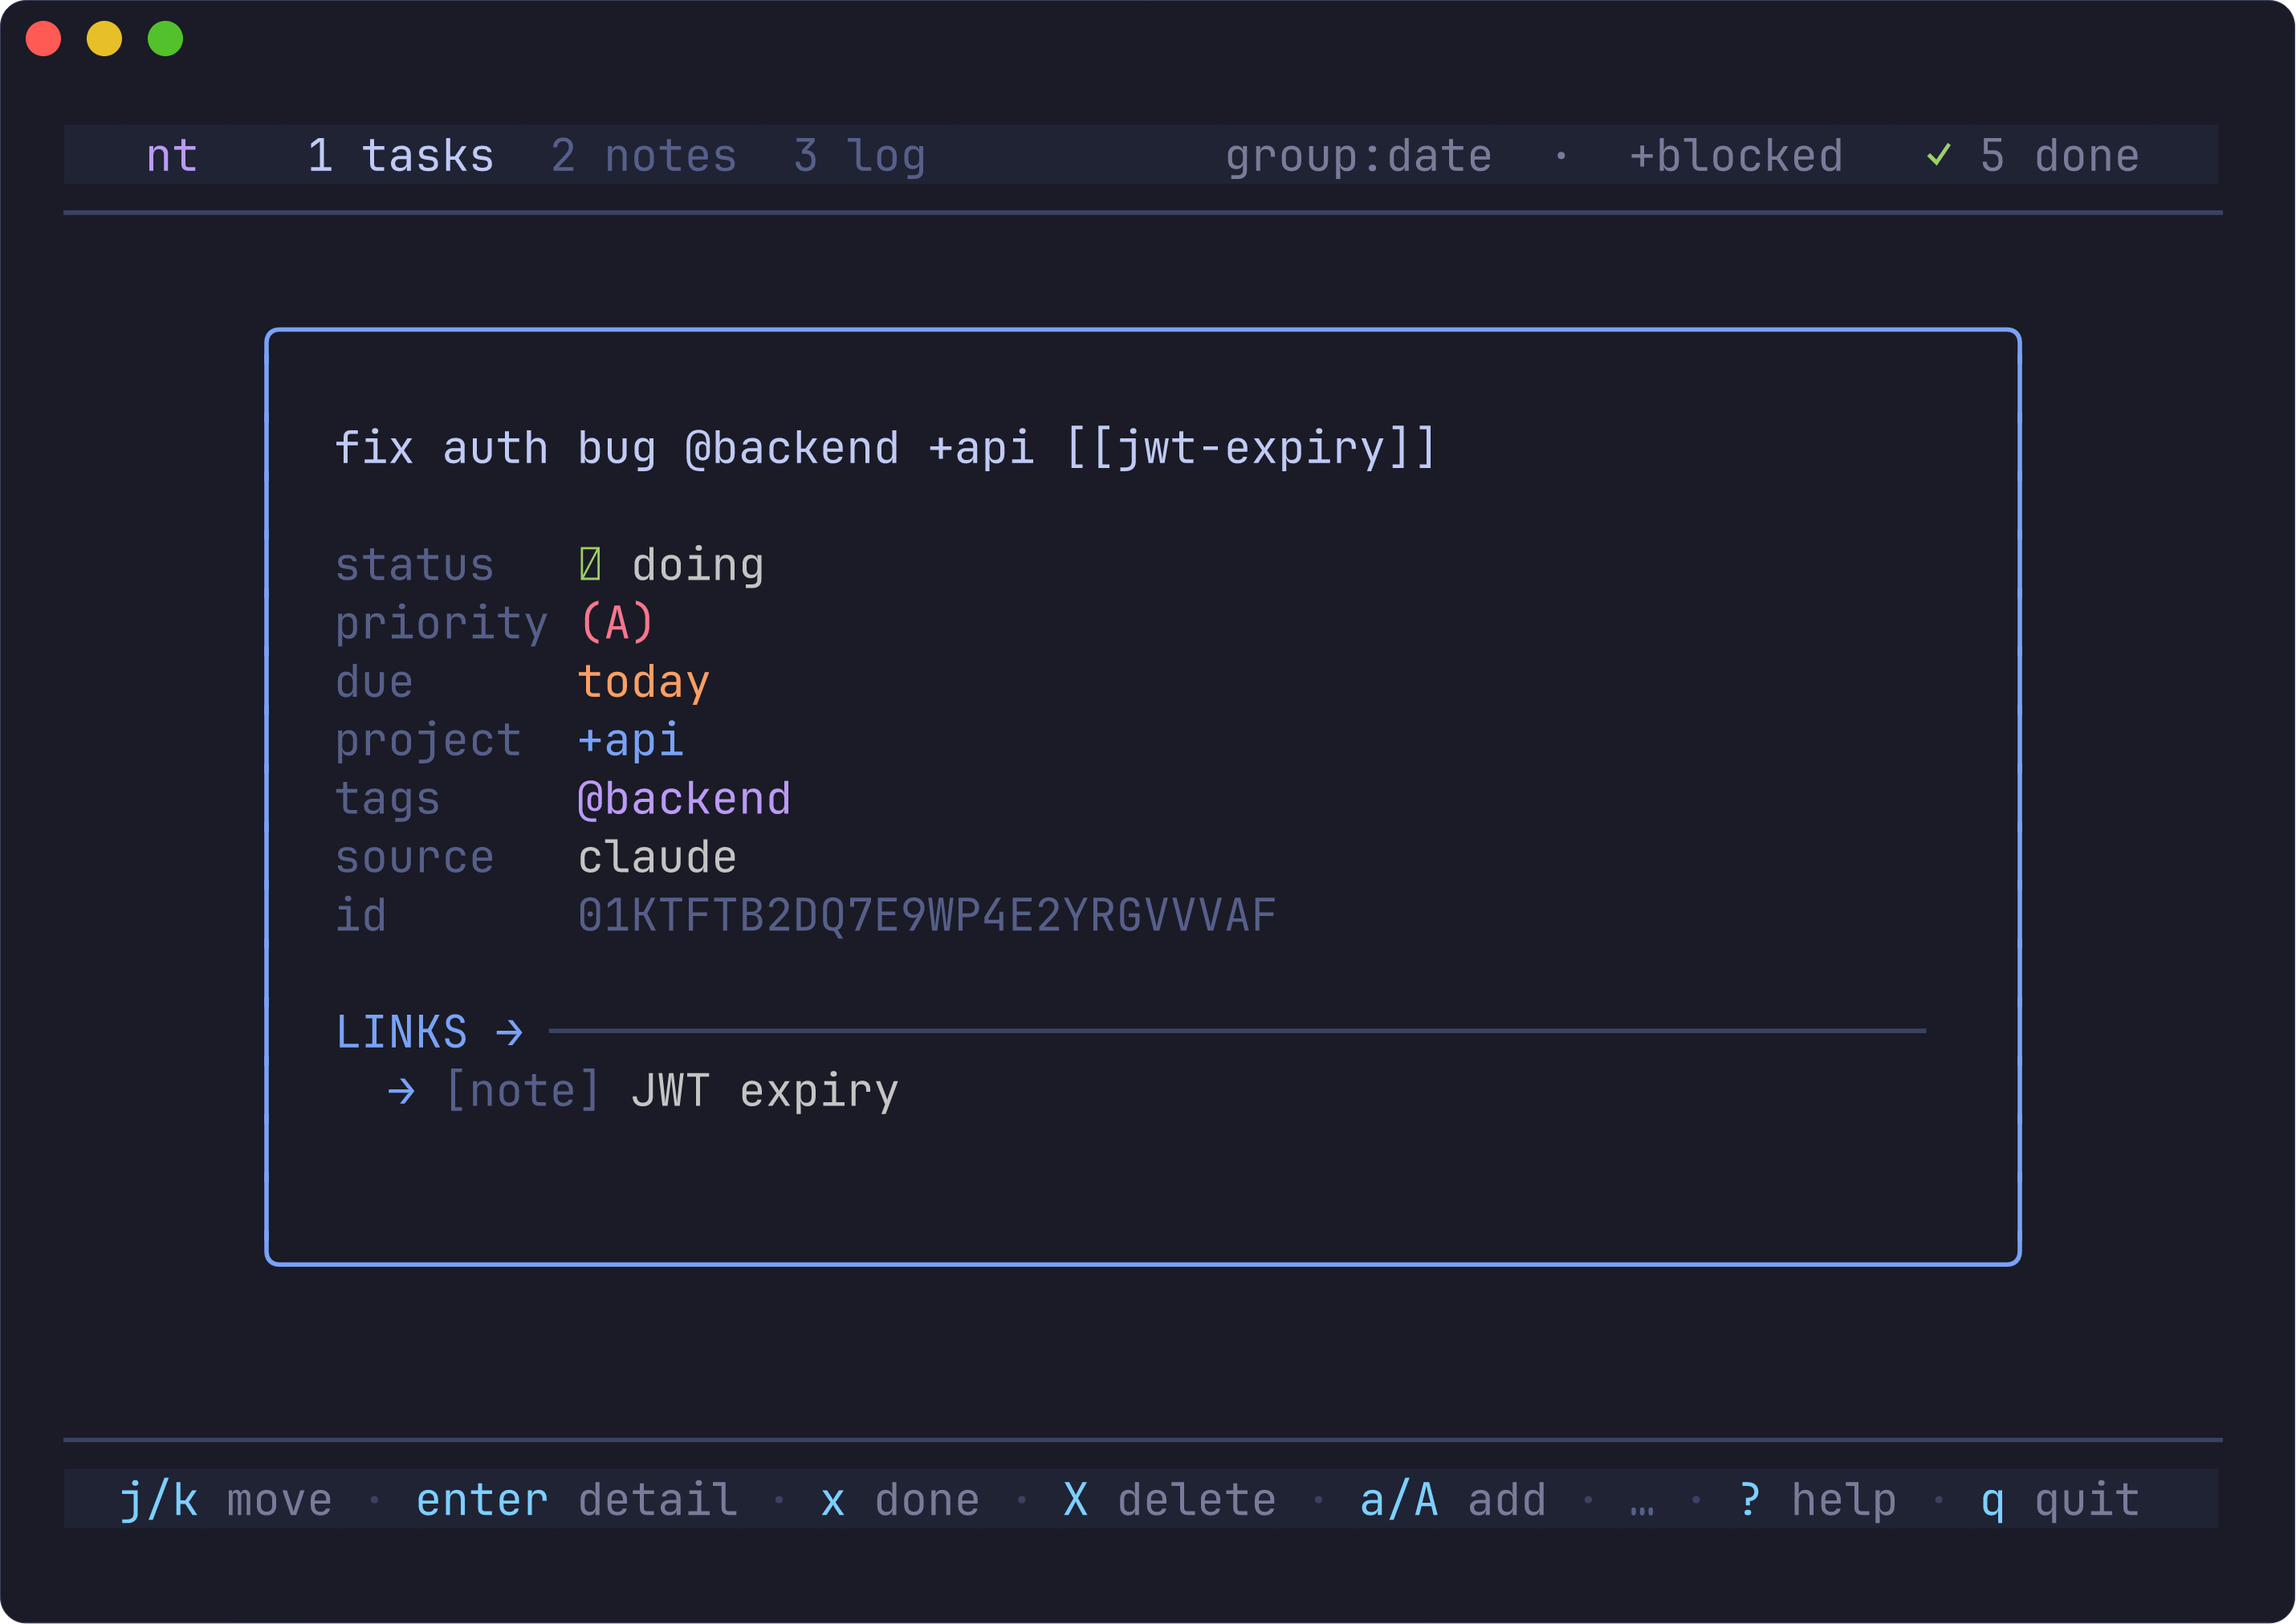
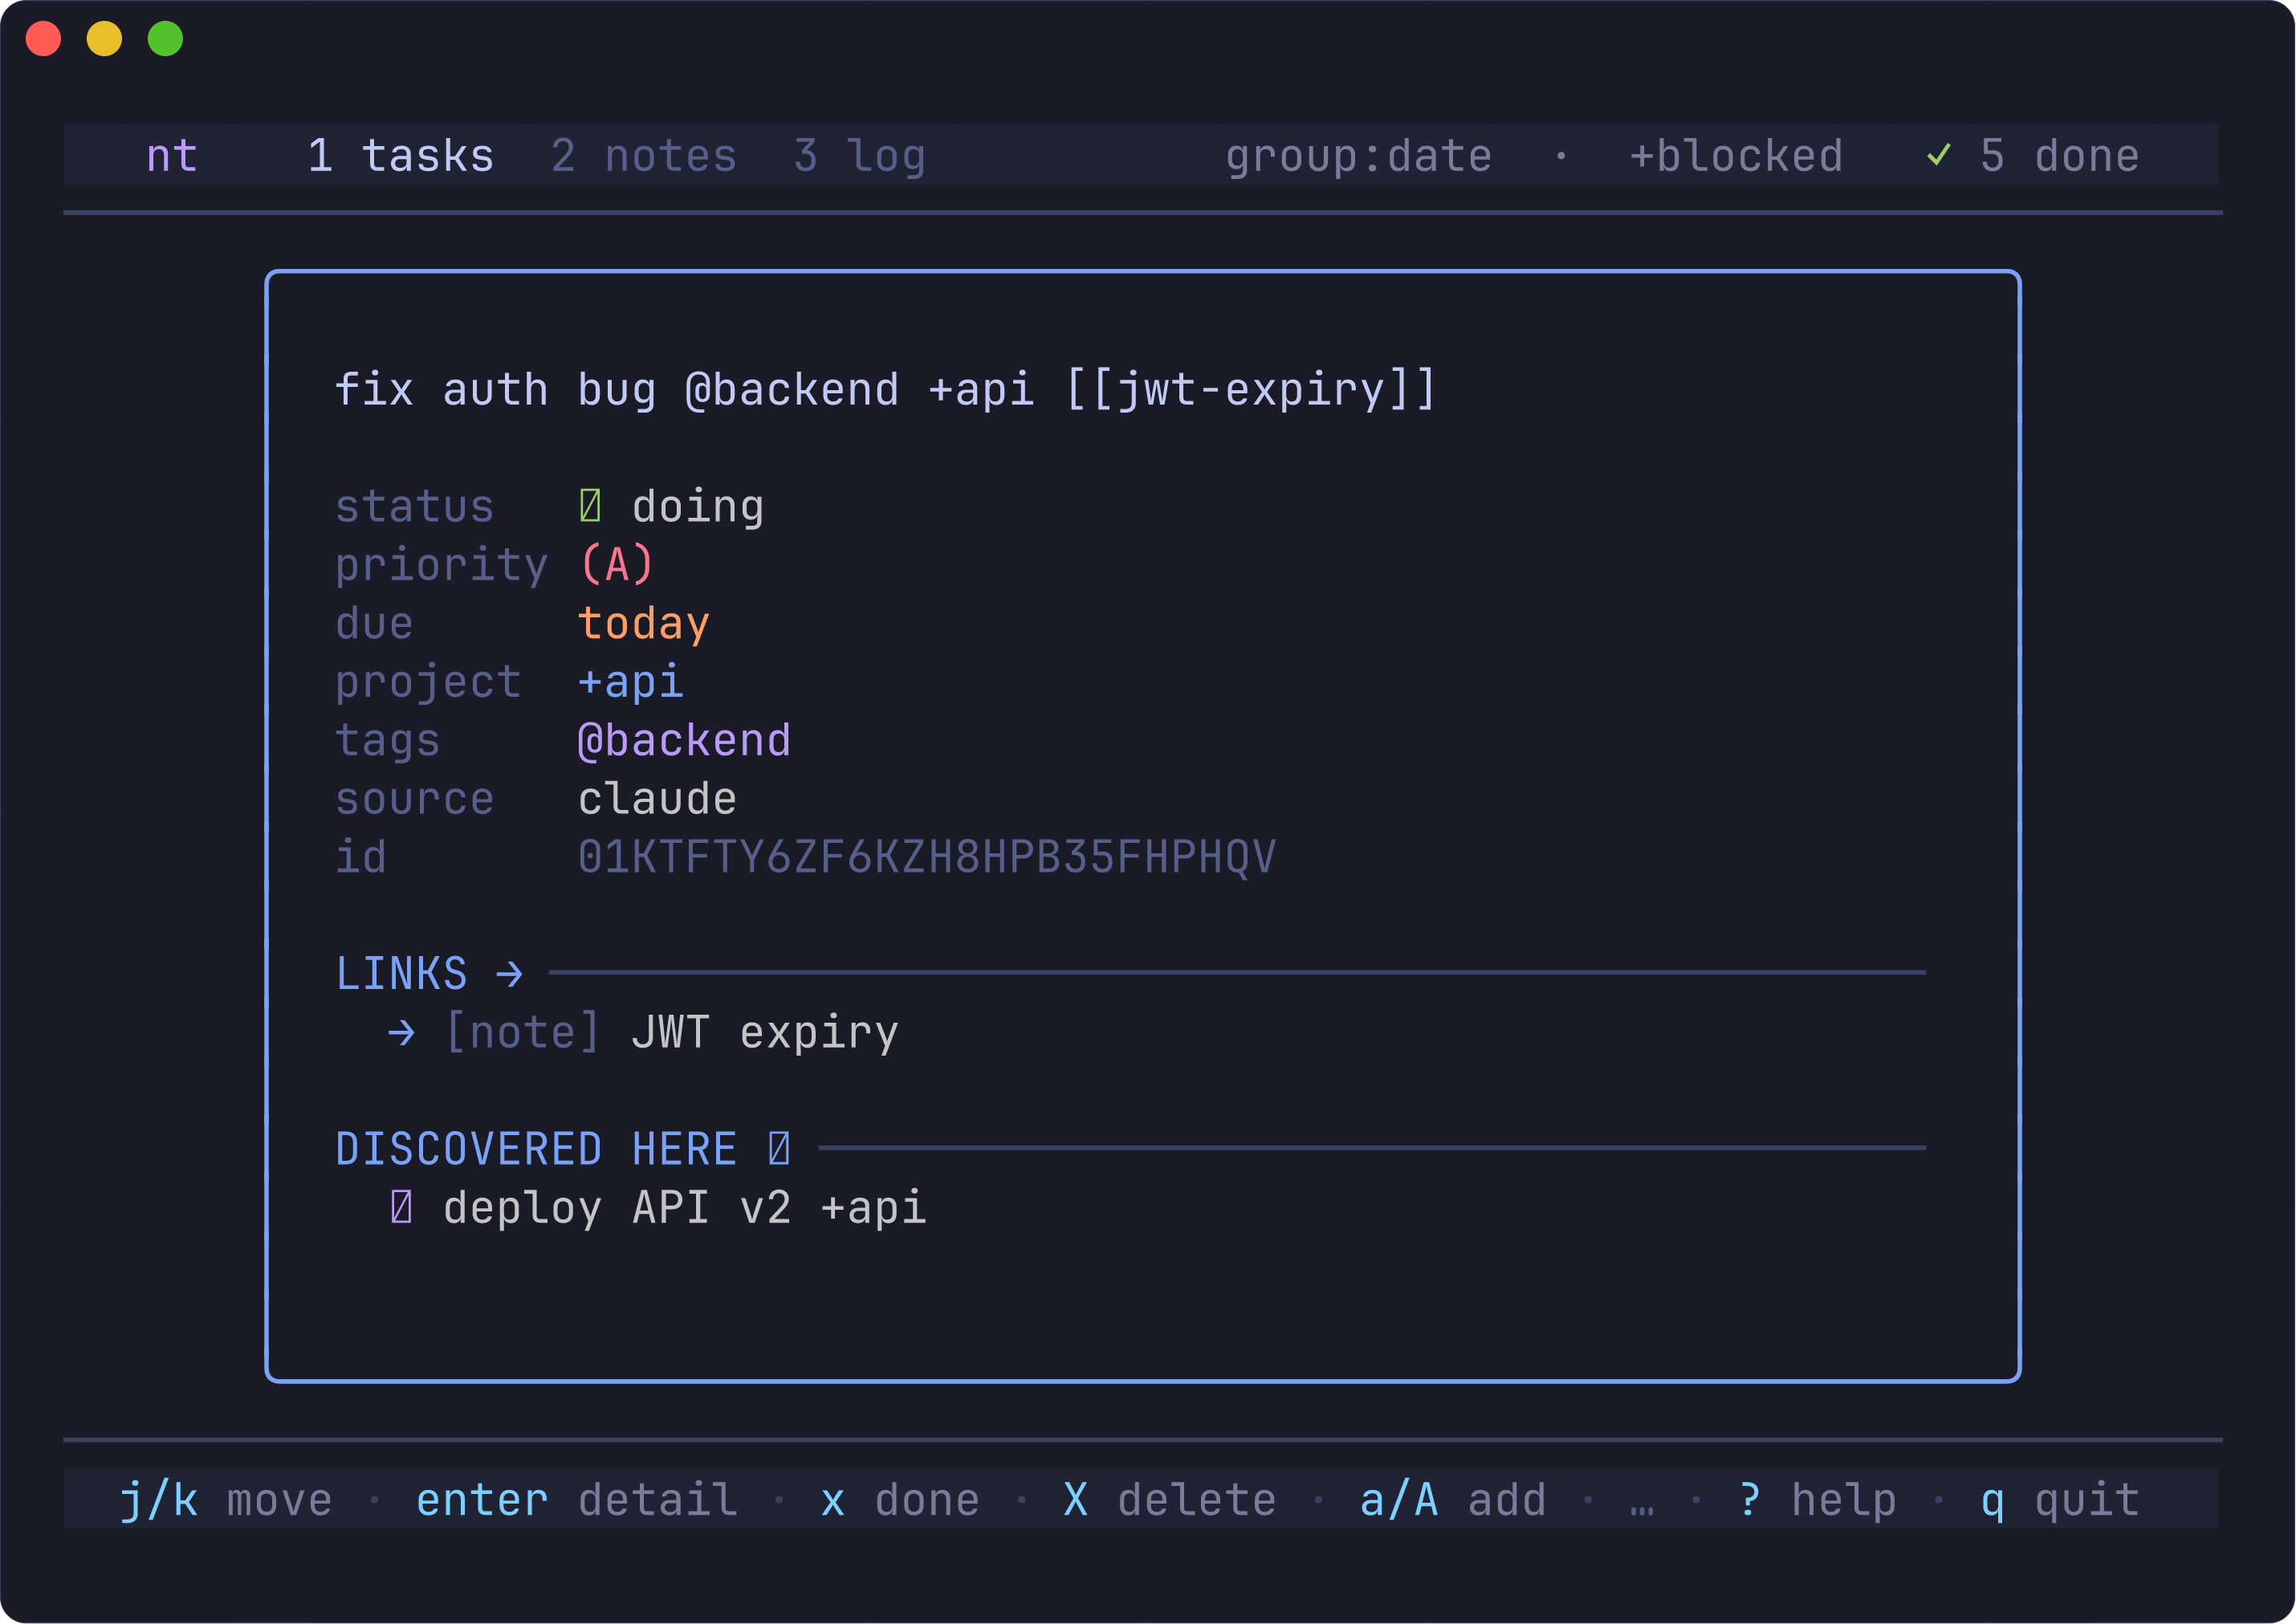
feat: --discovered-from provenance edge + decision-capture skill guidance
Capture-decisions slice (Product #5). Records WHY a task exists, not just the
todo mirror — the reasoning that's otherwise lost across AI sessions.

- task: discovered:<ULID> key + Task.Discovered() accessor (round-trips like
  parent:/blocks:).
- nt add --discovered-from <id>: links new work to the task it was surfaced
  from. nt links shows both directions ('discovered from ↑' / 'discovered here
  ↳'); the TUI detail pane gains DISCOVERED FROM/HERE sections.
- SKILL.md: 'capture the why, not just the what' — guidance to chain discovered
  work and to write decision/dead-end notes (pairs with recall now returning
  note bodies). This behavioral nudge is the real unlock.
- SPEC + CLI help updated; render harness wires a discovered edge so the detail
  pane demonstrates it; screenshots regenerated.
Test: --discovered-from stored, surfaced both ways via nt links.

Changed region(s): [[0.1245, 0.1869, 0.8713, 0.7785], [0.3734, 0.7163, 0.4045, 0.7785]]

diff --git a/docs/tui-render.html b/docs/tui-render.html
@@ -17,13 +17,13 @@ pre{margin:0;padding:0;background:#1a1b26;line-height:1.32;font-size:13px}</styl
    <span style="color:#565f89;">○</span> write migration <span style="color:#79a2f7;">+api</span>                                                <span style="color:#e0af68;">(B)</span> <span style="color:#e0af68;">Fri</span> <span style="color:#3b4161;">│</span>  <span style="color:#565f89;">project  </span><span style="color:#79a2f7;">+api</span>                                           
                                                                                  <span style="color:#3b4161;">│</span>  <span style="color:#565f89;">tags     </span><span style="color:#bb9af7;">@backend</span>                                       
 <span style="color:#79a2f7;font-weight:600;">  NO DATE </span><span style="color:#3b4161;">───────────────────────────────────────────────────────────────────</span><span style="color:#565f89;"> 2 </span> <span style="color:#3b4161;">│</span>  <span style="color:#565f89;">source   </span>claude                                         
-   <span style="color:#565f89;">○</span> spike: rotate auth secrets <span style="color:#7dcfff;">[[jwt-expiry]]</span>                               <span style="color:#79a2f7;">(C)</span> <span style="color:#3b4161;">│</span>  <span style="color:#565f89;">id       </span><span style="color:#565f89;">01KTFTB1CW58N5H1CMYRTRM20P</span>                     
+   <span style="color:#565f89;">○</span> spike: rotate auth secrets <span style="color:#7dcfff;">[[jwt-expiry]]</span>                               <span style="color:#79a2f7;">(C)</span> <span style="color:#3b4161;">│</span>  <span style="color:#565f89;">id       </span><span style="color:#565f89;">01KTFTY5Z2CC8XNFG9TY3B9Q7B</span>                     
    <span style="color:#f7768e;">⊘</span> update config <span style="color:#79a2f7;">+api</span>                                                          <span style="color:#3b4161;">│</span>                                                          
                                                                                  <span style="color:#3b4161;">│</span>  <span style="color:#79a2f7;font-weight:600;">LINKS →</span> <span style="color:#3b4161;">────────────────────────────────────────────</span>    
 <span style="color:#79a2f7;font-weight:600;">  DONE </span><span style="color:#3b4161;">──────────────────────────────────────────────────────────────────────</span><span style="color:#565f89;"> 5 </span> <span style="color:#3b4161;">│</span>    <span style="color:#79a2f7;">→</span> <span style="color:#565f89;">[note]</span> JWT expiry                                   
    <span style="color:#565f89;">✓</span> <span style="color:#565f89;text-decoration:line-through;">s</span><span style="color:#565f89;text-decoration:line-through;">h</span><span style="color:#565f89;text-decoration:line-through;">i</span><span style="color:#565f89;text-decoration:line-through;">p</span><span style="color:#565f89;text-decoration:line-through;"> </span><span style="color:#565f89;text-decoration:line-through;">r</span><span style="color:#565f89;text-decoration:line-through;">e</span><span style="color:#565f89;text-decoration:line-through;">l</span><span style="color:#565f89;text-decoration:line-through;">e</span><span style="color:#565f89;text-decoration:line-through;">a</span><span style="color:#565f89;text-decoration:line-through;">s</span><span style="color:#565f89;text-decoration:line-through;">e</span><span style="color:#565f89;text-decoration:line-through;"> </span><span style="color:#565f89;text-decoration:line-through;">n</span><span style="color:#565f89;text-decoration:line-through;">o</span><span style="color:#565f89;text-decoration:line-through;">t</span><span style="color:#565f89;text-decoration:line-through;">e</span><span style="color:#565f89;text-decoration:line-through;">s</span><span style="color:#565f89;text-decoration:line-through;"> </span><span style="color:#565f89;text-decoration:line-through;">+</span><span style="color:#565f89;text-decoration:line-through;">r</span><span style="color:#565f89;text-decoration:line-through;">e</span><span style="color:#565f89;text-decoration:line-through;">l</span><span style="color:#565f89;text-decoration:line-through;">e</span><span style="color:#565f89;text-decoration:line-through;">a</span><span style="color:#565f89;text-decoration:line-through;">s</span><span style="color:#565f89;text-decoration:line-through;">e</span>                                                 <span style="color:#3b4161;">│</span>                                                          
-   <span style="color:#565f89;">✓</span> <span style="color:#565f89;text-decoration:line-through;">d</span><span style="color:#565f89;text-decoration:line-through;">e</span><span style="color:#565f89;text-decoration:line-through;">p</span><span style="color:#565f89;text-decoration:line-through;">l</span><span style="color:#565f89;text-decoration:line-through;">o</span><span style="color:#565f89;text-decoration:line-through;">y</span><span style="color:#565f89;text-decoration:line-through;"> </span><span style="color:#565f89;text-decoration:line-through;">A</span><span style="color:#565f89;text-decoration:line-through;">P</span><span style="color:#565f89;text-decoration:line-through;">I</span><span style="color:#565f89;text-decoration:line-through;"> </span><span style="color:#565f89;text-decoration:line-through;">v</span><span style="color:#565f89;text-decoration:line-through;">2</span><span style="color:#565f89;text-decoration:line-through;"> </span><span style="color:#565f89;text-decoration:line-through;">+</span><span style="color:#565f89;text-decoration:line-through;">a</span><span style="color:#565f89;text-decoration:line-through;">p</span><span style="color:#565f89;text-decoration:line-through;">i</span>                                                          <span style="color:#3b4161;">│</span>                                                          
-   <span style="color:#565f89;">✓</span> <span style="color:#565f89;text-decoration:line-through;">c</span><span style="color:#565f89;text-decoration:line-through;">l</span><span style="color:#565f89;text-decoration:line-through;">o</span><span style="color:#565f89;text-decoration:line-through;">s</span><span style="color:#565f89;text-decoration:line-through;">e</span><span style="color:#565f89;text-decoration:line-through;"> </span><span style="color:#565f89;text-decoration:line-through;">f</span><span style="color:#565f89;text-decoration:line-through;">l</span><span style="color:#565f89;text-decoration:line-through;">a</span><span style="color:#565f89;text-decoration:line-through;">k</span><span style="color:#565f89;text-decoration:line-through;">y</span><span style="color:#565f89;text-decoration:line-through;">-</span><span style="color:#565f89;text-decoration:line-through;">t</span><span style="color:#565f89;text-decoration:line-through;">e</span><span style="color:#565f89;text-decoration:line-through;">s</span><span style="color:#565f89;text-decoration:line-through;">t</span><span style="color:#565f89;text-decoration:line-through;"> </span><span style="color:#565f89;text-decoration:line-through;">i</span><span style="color:#565f89;text-decoration:line-through;">s</span><span style="color:#565f89;text-decoration:line-through;">s</span><span style="color:#565f89;text-decoration:line-through;">u</span><span style="color:#565f89;text-decoration:line-through;">e</span><span style="color:#565f89;text-decoration:line-through;"> </span><span style="color:#565f89;text-decoration:line-through;">@</span><span style="color:#565f89;text-decoration:line-through;">c</span><span style="color:#565f89;text-decoration:line-through;">i</span><span style="color:#565f89;text-decoration:line-through;"> </span><span style="color:#565f89;text-decoration:line-through;">[</span><span style="color:#565f89;text-decoration:line-through;">[</span><span style="color:#565f89;text-decoration:line-through;">c</span><span style="color:#565f89;text-decoration:line-through;">i</span><span style="color:#565f89;text-decoration:line-through;">-</span><span style="color:#565f89;text-decoration:line-through;">r</span><span style="color:#565f89;text-decoration:line-through;">u</span><span style="color:#565f89;text-decoration:line-through;">n</span><span style="color:#565f89;text-decoration:line-through;">b</span><span style="color:#565f89;text-decoration:line-through;">o</span><span style="color:#565f89;text-decoration:line-through;">o</span><span style="color:#565f89;text-decoration:line-through;">k</span><span style="color:#565f89;text-decoration:line-through;">]</span><span style="color:#565f89;text-decoration:line-through;">]</span>                                   <span style="color:#3b4161;">│</span>                                                          
+   <span style="color:#565f89;">✓</span> <span style="color:#565f89;text-decoration:line-through;">d</span><span style="color:#565f89;text-decoration:line-through;">e</span><span style="color:#565f89;text-decoration:line-through;">p</span><span style="color:#565f89;text-decoration:line-through;">l</span><span style="color:#565f89;text-decoration:line-through;">o</span><span style="color:#565f89;text-decoration:line-through;">y</span><span style="color:#565f89;text-decoration:line-through;"> </span><span style="color:#565f89;text-decoration:line-through;">A</span><span style="color:#565f89;text-decoration:line-through;">P</span><span style="color:#565f89;text-decoration:line-through;">I</span><span style="color:#565f89;text-decoration:line-through;"> </span><span style="color:#565f89;text-decoration:line-through;">v</span><span style="color:#565f89;text-decoration:line-through;">2</span><span style="color:#565f89;text-decoration:line-through;"> </span><span style="color:#565f89;text-decoration:line-through;">+</span><span style="color:#565f89;text-decoration:line-through;">a</span><span style="color:#565f89;text-decoration:line-through;">p</span><span style="color:#565f89;text-decoration:line-through;">i</span>                                                          <span style="color:#3b4161;">│</span>  <span style="color:#79a2f7;font-weight:600;">DISCOVERED HERE ↳</span> <span style="color:#3b4161;">──────────────────────────────────</span>    
+   <span style="color:#565f89;">✓</span> <span style="color:#565f89;text-decoration:line-through;">c</span><span style="color:#565f89;text-decoration:line-through;">l</span><span style="color:#565f89;text-decoration:line-through;">o</span><span style="color:#565f89;text-decoration:line-through;">s</span><span style="color:#565f89;text-decoration:line-through;">e</span><span style="color:#565f89;text-decoration:line-through;"> </span><span style="color:#565f89;text-decoration:line-through;">f</span><span style="color:#565f89;text-decoration:line-through;">l</span><span style="color:#565f89;text-decoration:line-through;">a</span><span style="color:#565f89;text-decoration:line-through;">k</span><span style="color:#565f89;text-decoration:line-through;">y</span><span style="color:#565f89;text-decoration:line-through;">-</span><span style="color:#565f89;text-decoration:line-through;">t</span><span style="color:#565f89;text-decoration:line-through;">e</span><span style="color:#565f89;text-decoration:line-through;">s</span><span style="color:#565f89;text-decoration:line-through;">t</span><span style="color:#565f89;text-decoration:line-through;"> </span><span style="color:#565f89;text-decoration:line-through;">i</span><span style="color:#565f89;text-decoration:line-through;">s</span><span style="color:#565f89;text-decoration:line-through;">s</span><span style="color:#565f89;text-decoration:line-through;">u</span><span style="color:#565f89;text-decoration:line-through;">e</span><span style="color:#565f89;text-decoration:line-through;"> </span><span style="color:#565f89;text-decoration:line-through;">@</span><span style="color:#565f89;text-decoration:line-through;">c</span><span style="color:#565f89;text-decoration:line-through;">i</span><span style="color:#565f89;text-decoration:line-through;"> </span><span style="color:#565f89;text-decoration:line-through;">[</span><span style="color:#565f89;text-decoration:line-through;">[</span><span style="color:#565f89;text-decoration:line-through;">c</span><span style="color:#565f89;text-decoration:line-through;">i</span><span style="color:#565f89;text-decoration:line-through;">-</span><span style="color:#565f89;text-decoration:line-through;">r</span><span style="color:#565f89;text-decoration:line-through;">u</span><span style="color:#565f89;text-decoration:line-through;">n</span><span style="color:#565f89;text-decoration:line-through;">b</span><span style="color:#565f89;text-decoration:line-through;">o</span><span style="color:#565f89;text-decoration:line-through;">o</span><span style="color:#565f89;text-decoration:line-through;">k</span><span style="color:#565f89;text-decoration:line-through;">]</span><span style="color:#565f89;text-decoration:line-through;">]</span>                                   <span style="color:#3b4161;">│</span>    <span style="color:#bb9af7;">↳</span> deploy API v2 +api                                  
    <span style="color:#565f89;">✓</span> <span style="color:#565f89;text-decoration:line-through;">w</span><span style="color:#565f89;text-decoration:line-through;">r</span><span style="color:#565f89;text-decoration:line-through;">i</span><span style="color:#565f89;text-decoration:line-through;">t</span><span style="color:#565f89;text-decoration:line-through;">e</span><span style="color:#565f89;text-decoration:line-through;"> </span><span style="color:#565f89;text-decoration:line-through;">A</span><span style="color:#565f89;text-decoration:line-through;">P</span><span style="color:#565f89;text-decoration:line-through;">I</span><span style="color:#565f89;text-decoration:line-through;"> </span><span style="color:#565f89;text-decoration:line-through;">d</span><span style="color:#565f89;text-decoration:line-through;">o</span><span style="color:#565f89;text-decoration:line-through;">c</span><span style="color:#565f89;text-decoration:line-through;">s</span><span style="color:#565f89;text-decoration:line-through;"> </span><span style="color:#565f89;text-decoration:line-through;">+</span><span style="color:#565f89;text-decoration:line-through;">d</span><span style="color:#565f89;text-decoration:line-through;">o</span><span style="color:#565f89;text-decoration:line-through;">c</span><span style="color:#565f89;text-decoration:line-through;">s</span>                                                        <span style="color:#3b4161;">│</span>                                                          
    <span style="color:#565f89;">✓</span> <span style="color:#565f89;text-decoration:line-through;">s</span><span style="color:#565f89;text-decoration:line-through;">e</span><span style="color:#565f89;text-decoration:line-through;">c</span><span style="color:#565f89;text-decoration:line-through;">u</span><span style="color:#565f89;text-decoration:line-through;">r</span><span style="color:#565f89;text-decoration:line-through;">i</span><span style="color:#565f89;text-decoration:line-through;">t</span><span style="color:#565f89;text-decoration:line-through;">y</span><span style="color:#565f89;text-decoration:line-through;"> </span><span style="color:#565f89;text-decoration:line-through;">a</span><span style="color:#565f89;text-decoration:line-through;">u</span><span style="color:#565f89;text-decoration:line-through;">d</span><span style="color:#565f89;text-decoration:line-through;">i</span><span style="color:#565f89;text-decoration:line-through;">t</span><span style="color:#565f89;text-decoration:line-through;"> </span><span style="color:#565f89;text-decoration:line-through;">@</span><span style="color:#565f89;text-decoration:line-through;">s</span><span style="color:#565f89;text-decoration:line-through;">e</span><span style="color:#565f89;text-decoration:line-through;">c</span><span style="color:#565f89;text-decoration:line-through;">u</span><span style="color:#565f89;text-decoration:line-through;">r</span><span style="color:#565f89;text-decoration:line-through;">i</span><span style="color:#565f89;text-decoration:line-through;">t</span><span style="color:#565f89;text-decoration:line-through;">y</span><span style="color:#565f89;text-decoration:line-through;"> </span><span style="color:#565f89;text-decoration:line-through;">+</span><span style="color:#565f89;text-decoration:line-through;">i</span><span style="color:#565f89;text-decoration:line-through;">n</span><span style="color:#565f89;text-decoration:line-through;">f</span><span style="color:#565f89;text-decoration:line-through;">r</span><span style="color:#565f89;text-decoration:line-through;">a</span>                                             <span style="color:#3b4161;">│</span>                                                          
                                                                                  <span style="color:#3b4161;">│</span>                                                          
@@ -88,7 +88,6 @@ pre{margin:0;padding:0;background:#1a1b26;line-height:1.32;font-size:13px}</styl
 <h2>Detail overlay (80 cols)</h2>
 <div class="term"><div class="chrome"><span class="dot" style="background:#ff5f57"></span><span class="dot" style="background:#febc2e"></span><span class="dot" style="background:#28c840"></span></div><pre><span style="background:#1f2334;">  </span><span style="color:#bb9af7;background:#1f2334;font-weight:600;"> nt </span><span style="background:#1f2334;">  </span><span style="color:#c0caf5;background:#1f2334;font-weight:600;"> 1 tasks </span><span style="color:#565f89;background:#1f2334;"> 2 notes </span><span style="color:#565f89;background:#1f2334;"> 3 log </span><span style="color:#787c99;background:#1f2334;">          </span><span style="color:#787c99;background:#1f2334;">group:date</span><span style="color:#787c99;background:#1f2334;">  ·  +blocked</span><span style="color:#787c99;background:#1f2334;">  </span><span style="color:#9ece69;background:#1f2334;"> ✓ </span><span style="color:#787c99;background:#1f2334;">5 done </span><span style="color:#787c99;background:#1f2334;">  </span>
 <span style="color:#3b4161;">────────────────────────────────────────────────────────────────────────────────</span>
-                                                                                
        <span style="color:#79a2f7;">╭────────────────────────────────────────────────────────────────╮</span>       
        <span style="color:#79a2f7;">│</span>                                                                <span style="color:#79a2f7;">│</span>       
        <span style="color:#79a2f7;">│</span>  <span style="color:#c0caf5;font-weight:600;">fix auth bug @backend +api [[jwt-expiry]]</span>                     <span style="color:#79a2f7;">│</span>       
@@ -99,15 +98,16 @@ pre{margin:0;padding:0;background:#1a1b26;line-height:1.32;font-size:13px}</styl
        <span style="color:#79a2f7;">│</span>  <span style="color:#565f89;">project  </span><span style="color:#79a2f7;">+api</span>                                                 <span style="color:#79a2f7;">│</span>       
        <span style="color:#79a2f7;">│</span>  <span style="color:#565f89;">tags     </span><span style="color:#bb9af7;">@backend</span>                                             <span style="color:#79a2f7;">│</span>       
        <span style="color:#79a2f7;">│</span>  <span style="color:#565f89;">source   </span>claude                                               <span style="color:#79a2f7;">│</span>       
-       <span style="color:#79a2f7;">│</span>  <span style="color:#565f89;">id       </span><span style="color:#565f89;">01KTFTB1CW58N5H1CMYRTRM20P</span>                           <span style="color:#79a2f7;">│</span>       
+       <span style="color:#79a2f7;">│</span>  <span style="color:#565f89;">id       </span><span style="color:#565f89;">01KTFTY5Z2CC8XNFG9TY3B9Q7B</span>                           <span style="color:#79a2f7;">│</span>       
        <span style="color:#79a2f7;">│</span>                                                                <span style="color:#79a2f7;">│</span>       
        <span style="color:#79a2f7;">│</span>  <span style="color:#79a2f7;font-weight:600;">LINKS →</span> <span style="color:#3b4161;">───────────────────────────────────────────────────</span>   <span style="color:#79a2f7;">│</span>       
        <span style="color:#79a2f7;">│</span>    <span style="color:#79a2f7;">→</span> <span style="color:#565f89;">[note]</span> JWT expiry                                         <span style="color:#79a2f7;">│</span>       
        <span style="color:#79a2f7;">│</span>                                                                <span style="color:#79a2f7;">│</span>       
+       <span style="color:#79a2f7;">│</span>  <span style="color:#79a2f7;font-weight:600;">DISCOVERED HERE ↳</span> <span style="color:#3b4161;">─────────────────────────────────────────</span>   <span style="color:#79a2f7;">│</span>       
+       <span style="color:#79a2f7;">│</span>    <span style="color:#bb9af7;">↳</span> deploy API v2 +api                                        <span style="color:#79a2f7;">│</span>       
+       <span style="color:#79a2f7;">│</span>                                                                <span style="color:#79a2f7;">│</span>       
        <span style="color:#79a2f7;">│</span>                                                                <span style="color:#79a2f7;">│</span>       
        <span style="color:#79a2f7;">╰────────────────────────────────────────────────────────────────╯</span>       
-                                                                                
-                                                                                
 <span style="color:#3b4161;">────────────────────────────────────────────────────────────────────────────────</span>
 <span style="color:#787c99;background:#1f2334;">  </span><span style="color:#7dcfff;background:#1f2334;">j/k</span><span style="color:#787c99;background:#1f2334;"> move</span><span style="color:#3b4161;background:#1f2334;"> · </span><span style="color:#7dcfff;background:#1f2334;">enter</span><span style="color:#787c99;background:#1f2334;"> detail</span><span style="color:#3b4161;background:#1f2334;"> · </span><span style="color:#7dcfff;background:#1f2334;">x</span><span style="color:#787c99;background:#1f2334;"> done</span><span style="color:#3b4161;background:#1f2334;"> · </span><span style="color:#7dcfff;background:#1f2334;">X</span><span style="color:#787c99;background:#1f2334;"> delete</span><span style="color:#3b4161;background:#1f2334;"> · </span><span style="color:#7dcfff;background:#1f2334;">a/A</span><span style="color:#787c99;background:#1f2334;"> add</span><span style="color:#3b4161;background:#1f2334;"> · </span><span style="color:#565f89;background:#1f2334;">…</span><span style="color:#3b4161;background:#1f2334;"> · </span><span style="color:#7dcfff;background:#1f2334;">?</span><span style="color:#787c99;background:#1f2334;"> help</span><span style="color:#3b4161;background:#1f2334;"> · </span><span style="color:#7dcfff;background:#1f2334;">q</span><span style="color:#787c99;background:#1f2334;"> quit</span><span style="color:#787c99;background:#1f2334;">   </span></pre></div>
 <h2>Compact strip (34 cols)</h2>
@@ -193,7 +193,7 @@ pre{margin:0;padding:0;background:#1a1b26;line-height:1.32;font-size:13px}</styl
    <span style="color:#9ece69;">✓</span> <span style="color:#565f89;text-decoration:line-through;">d</span><span style="color:#565f89;text-decoration:line-through;">e</span><span style="color:#565f89;text-decoration:line-through;">p</span><span style="color:#565f89;text-decoration:line-through;">l</span><span style="color:#565f89;text-decoration:line-through;">o</span><span style="color:#565f89;text-decoration:line-through;">y</span><span style="color:#565f89;text-decoration:line-through;"> </span><span style="color:#565f89;text-decoration:line-through;">A</span><span style="color:#565f89;text-decoration:line-through;">P</span><span style="color:#565f89;text-decoration:line-through;">I</span><span style="color:#565f89;text-decoration:line-through;"> </span><span style="color:#565f89;text-decoration:line-through;">v</span><span style="color:#565f89;text-decoration:line-through;">2</span><span style="color:#565f89;text-decoration:line-through;"> </span><span style="color:#565f89;text-decoration:line-through;">+</span><span style="color:#565f89;text-decoration:line-through;">a</span><span style="color:#565f89;text-decoration:line-through;">p</span><span style="color:#565f89;text-decoration:line-through;">i</span>                                                      <span style="color:#7dcfff;">cli</span> <span style="color:#3b4161;">│</span>  <span style="color:#565f89;">status   </span><span style="color:#565f89;">✓</span> done                                         
    <span style="color:#9ece69;">✓</span> <span style="color:#565f89;text-decoration:line-through;">s</span><span style="color:#565f89;text-decoration:line-through;">h</span><span style="color:#565f89;text-decoration:line-through;">i</span><span style="color:#565f89;text-decoration:line-through;">p</span><span style="color:#565f89;text-decoration:line-through;"> </span><span style="color:#565f89;text-decoration:line-through;">r</span><span style="color:#565f89;text-decoration:line-through;">e</span><span style="color:#565f89;text-decoration:line-through;">l</span><span style="color:#565f89;text-decoration:line-through;">e</span><span style="color:#565f89;text-decoration:line-through;">a</span><span style="color:#565f89;text-decoration:line-through;">s</span><span style="color:#565f89;text-decoration:line-through;">e</span><span style="color:#565f89;text-decoration:line-through;"> </span><span style="color:#565f89;text-decoration:line-through;">n</span><span style="color:#565f89;text-decoration:line-through;">o</span><span style="color:#565f89;text-decoration:line-through;">t</span><span style="color:#565f89;text-decoration:line-through;">e</span><span style="color:#565f89;text-decoration:line-through;">s</span><span style="color:#565f89;text-decoration:line-through;"> </span><span style="color:#565f89;text-decoration:line-through;">+</span><span style="color:#565f89;text-decoration:line-through;">r</span><span style="color:#565f89;text-decoration:line-through;">e</span><span style="color:#565f89;text-decoration:line-through;">l</span><span style="color:#565f89;text-decoration:line-through;">e</span><span style="color:#565f89;text-decoration:line-through;">a</span><span style="color:#565f89;text-decoration:line-through;">s</span><span style="color:#565f89;text-decoration:line-through;">e</span>                                          <span style="color:#bb9af7;">claude</span> <span style="color:#3b4161;">│</span>  <span style="color:#565f89;">tags     </span><span style="color:#bb9af7;">@ci</span>                                            
                                                                                  <span style="color:#3b4161;">│</span>  <span style="color:#565f89;">source   </span>claude                                         
-<span style="color:#79a2f7;font-weight:600;">  YESTERDAY · SAT JUN 6 </span><span style="color:#3b4161;">─────────────────────────────────────────────────────</span><span style="color:#565f89;"> 2 </span> <span style="color:#3b4161;">│</span>  <span style="color:#565f89;">id       </span><span style="color:#565f89;">01KTFTB1G7AMA55VXV2VQ9EDNX</span>                     
+<span style="color:#79a2f7;font-weight:600;">  YESTERDAY · SAT JUN 6 </span><span style="color:#3b4161;">─────────────────────────────────────────────────────</span><span style="color:#565f89;"> 2 </span> <span style="color:#3b4161;">│</span>  <span style="color:#565f89;">id       </span><span style="color:#565f89;">01KTFTY625R1K8P5RB7GSTZW23</span>                     
    <span style="color:#9ece69;">✓</span> <span style="color:#565f89;text-decoration:line-through;">s</span><span style="color:#565f89;text-decoration:line-through;">e</span><span style="color:#565f89;text-decoration:line-through;">c</span><span style="color:#565f89;text-decoration:line-through;">u</span><span style="color:#565f89;text-decoration:line-through;">r</span><span style="color:#565f89;text-decoration:line-through;">i</span><span style="color:#565f89;text-decoration:line-through;">t</span><span style="color:#565f89;text-decoration:line-through;">y</span><span style="color:#565f89;text-decoration:line-through;"> </span><span style="color:#565f89;text-decoration:line-through;">a</span><span style="color:#565f89;text-decoration:line-through;">u</span><span style="color:#565f89;text-decoration:line-through;">d</span><span style="color:#565f89;text-decoration:line-through;">i</span><span style="color:#565f89;text-decoration:line-through;">t</span><span style="color:#565f89;text-decoration:line-through;"> </span><span style="color:#565f89;text-decoration:line-through;">@</span><span style="color:#565f89;text-decoration:line-through;">s</span><span style="color:#565f89;text-decoration:line-through;">e</span><span style="color:#565f89;text-decoration:line-through;">c</span><span style="color:#565f89;text-decoration:line-through;">u</span><span style="color:#565f89;text-decoration:line-through;">r</span><span style="color:#565f89;text-decoration:line-through;">i</span><span style="color:#565f89;text-decoration:line-through;">t</span><span style="color:#565f89;text-decoration:line-through;">y</span><span style="color:#565f89;text-decoration:line-through;"> </span><span style="color:#565f89;text-decoration:line-through;">+</span><span style="color:#565f89;text-decoration:line-through;">i</span><span style="color:#565f89;text-decoration:line-through;">n</span><span style="color:#565f89;text-decoration:line-through;">f</span><span style="color:#565f89;text-decoration:line-through;">r</span><span style="color:#565f89;text-decoration:line-through;">a</span>                                      <span style="color:#bb9af7;">claude</span> <span style="color:#3b4161;">│</span>                                                          
    <span style="color:#9ece69;">✓</span> <span style="color:#565f89;text-decoration:line-through;">w</span><span style="color:#565f89;text-decoration:line-through;">r</span><span style="color:#565f89;text-decoration:line-through;">i</span><span style="color:#565f89;text-decoration:line-through;">t</span><span style="color:#565f89;text-decoration:line-through;">e</span><span style="color:#565f89;text-decoration:line-through;"> </span><span style="color:#565f89;text-decoration:line-through;">A</span><span style="color:#565f89;text-decoration:line-through;">P</span><span style="color:#565f89;text-decoration:line-through;">I</span><span style="color:#565f89;text-decoration:line-through;"> </span><span style="color:#565f89;text-decoration:line-through;">d</span><span style="color:#565f89;text-decoration:line-through;">o</span><span style="color:#565f89;text-decoration:line-through;">c</span><span style="color:#565f89;text-decoration:line-through;">s</span><span style="color:#565f89;text-decoration:line-through;"> </span><span style="color:#565f89;text-decoration:line-through;">+</span><span style="color:#565f89;text-decoration:line-through;">d</span><span style="color:#565f89;text-decoration:line-through;">o</span><span style="color:#565f89;text-decoration:line-through;">c</span><span style="color:#565f89;text-decoration:line-through;">s</span>                                                    <span style="color:#7dcfff;">cli</span> <span style="color:#3b4161;">│</span>  <span style="color:#79a2f7;font-weight:600;">LINKS →</span> <span style="color:#3b4161;">────────────────────────────────────────────</span>    
                                                                                  <span style="color:#3b4161;">│</span>    <span style="color:#79a2f7;">→</span> <span style="color:#7dcfff;">[[ci-runbook]]</span><span style="color:#565f89;"> (unresolved)</span>                         

diff --git a/internal/cli/discovered_test.go b/internal/cli/discovered_test.go
@@ -1,0 +1,45 @@
+package cli
+
+import (
+	"encoding/json"
+	"strings"
+	"testing"
+)
+
+// TestDiscoveredFrom: --discovered-from records a provenance edge that nt links
+// surfaces in both directions.
+func TestDiscoveredFrom(t *testing.T) {
+	t.Setenv("NT_DIR", t.TempDir())
+	captureRun(t, "add", "refactor auth middleware", "--source", "claude")
+
+	var listed []taskJSON
+	if err := json.Unmarshal([]byte(captureRun(t, "list", "--json")), &listed); err != nil {
+		t.Fatal(err)
+	}
+	origin := listed[0].ID
+
+	captureRun(t, "add", "backfill user.tier column", "--discovered-from", origin, "--source", "claude")
+
+	// Origin's links show what was discovered from it.
+	if out := captureRun(t, "links", origin); !strings.Contains(out, "discovered here") ||
+		!strings.Contains(out, "backfill user.tier column") {
+		t.Fatalf("origin links should show 'discovered here' + the child:\n%s", out)
+	}
+
+	// The child's links show where it came from.
+	var all []taskJSON
+	_ = json.Unmarshal([]byte(captureRun(t, "list", "--json")), &all)
+	var child string
+	for _, j := range all {
+		if j.Text == "backfill user.tier column" {
+			child = j.ID
+		}
+	}
+	if child == "" {
+		t.Fatal("child task not found")
+	}
+	if out := captureRun(t, "links", child); !strings.Contains(out, "discovered from") ||
+		!strings.Contains(out, "refactor auth middleware") {
+		t.Fatalf("child links should show 'discovered from' + the origin:\n%s", out)
+	}
+}

diff --git a/internal/cli/commands.go b/internal/cli/commands.go
@@ -46,6 +46,7 @@ func cmdAdd(args []string) int {
 	source := fs.String("source", "cli", "origin")
 	parent := fs.String("parent", "", "parent task id")
 	blocks := fs.String("blocks", "", "blocks task id")
+	discovered := fs.String("discovered-from", "", "task this was discovered while working on")
 	recur := fs.String("recur", "", "recurrence: weekly|3d|…")
 	noteSlug := fs.String("note", "", "link to a note slug")
 	fs.Var(&tags, "tag", "tag (repeatable)")
@@ -92,6 +93,11 @@ func cmdAdd(args []string) int {
 		if *blocks != "" {
 			if bt, amb := d.Resolve(*blocks); bt != nil && !amb {
 				t.SetKey("blocks", bt.ID())
+			}
+		}
+		if *discovered != "" {
+			if dt, amb := d.Resolve(*discovered); dt != nil && !amb {
+				t.SetKey("discovered", dt.ID())
 			}
 		}
 		d.Append(t)
@@ -481,6 +487,7 @@ func cmdLinks(args []string) int {
 
 	var id, slug, title string
 	var forward []string
+	var self *task.Task
 	if strings.HasPrefix(handle, "note:") {
 		want := strings.TrimPrefix(handle, "note:")
 		for _, n := range notes {
@@ -501,7 +508,7 @@ func cmdLinks(args []string) int {
 		if t == nil {
 			return fail(fmt.Errorf("links: no task %q", handle))
 		}
-		id, title = t.ID(), t.Text
+		id, title, self = t.ID(), t.Text, t
 		forward = t.Links()
 	}
 
@@ -525,6 +532,28 @@ func cmdLinks(args []string) int {
 	for _, h := range back {
 		rel, _ := filepath.Rel(e.S.Dir, h.Path)
 		fmt.Printf("  ← %s:%d  %s\n", rel, h.Line, strings.TrimSpace(h.Text))
+	}
+
+	// Typed provenance: discovered-from (this task's origin) and the reverse
+	// (work discovered while this task was being done).
+	if self != nil {
+		if df := self.Discovered(); df != "" {
+			if origin := d.FindByID(df); origin != nil {
+				fmt.Printf("discovered from:\n  ↑ %s  %s\n", shortID(origin.ID()), origin.Text)
+			}
+		}
+		var spawned []*task.Task
+		for _, o := range d.Tasks() {
+			if o.Discovered() == self.ID() {
+				spawned = append(spawned, o)
+			}
+		}
+		if len(spawned) > 0 {
+			fmt.Println("discovered here:")
+			for _, o := range spawned {
+				fmt.Printf("  ↳ %s  %s\n", shortID(o.ID()), o.Text)
+			}
+		}
 	}
 	return 0
 }

diff --git a/internal/tui/view.go b/internal/tui/view.go
@@ -717,6 +717,26 @@ func (m *Model) detailContent(w int) string {
 			b.WriteString("  " + stTag.Render("←") + " " + stDim.Render("["+kind+"]") + " " + truncate(title, w-10) + "\n")
 		}
 	}
+
+	// Provenance: where this task came from, and what was discovered from it.
+	if df := t.Discovered(); df != "" {
+		if origin := d.FindByID(df); origin != nil {
+			b.WriteString("\n" + sectionHeader("DISCOVERED FROM ↑", w) + "\n")
+			b.WriteString("  " + stProj.Render("↑") + " " + truncate(origin.Text, w-4) + "\n")
+		}
+	}
+	var spawned []*task.Task
+	for _, o := range d.Tasks() {
+		if o.Discovered() == t.ID() {
+			spawned = append(spawned, o)
+		}
+	}
+	if len(spawned) > 0 {
+		b.WriteString("\n" + sectionHeader("DISCOVERED HERE ↳", w) + "\n")
+		for _, o := range spawned {
+			b.WriteString("  " + stTag.Render("↳") + " " + truncate(o.Text, w-4) + "\n")
+		}
+	}
 	return b.String()
 }
 

diff --git a/internal/task/task.go b/internal/task/task.go
@@ -184,6 +184,10 @@ func (t *Task) Parent() string { v, _ := t.get("parent"); return v }
 func (t *Task) Recur() string  { v, _ := t.get("rec"); return v }
 func (t *Task) Blocks() string { v, _ := t.get("blocks"); return v }
 
+// Discovered is the ULID of the task this one was discovered while working on —
+// provenance for work an agent surfaced mid-task (key: discovered:<ULID>).
+func (t *Task) Discovered() string { v, _ := t.get("discovered"); return v }
+
 // EnsureID assigns a ULID if the task lacks one (SPEC §4: hand-added lines get
 // an id on the next mutation that touches them).
 func (t *Task) EnsureID() {

diff --git a/internal/tui/htmlshot_test.go b/internal/tui/htmlshot_test.go
@@ -55,8 +55,8 @@ func renderFrames(t *testing.T) []frame {
 		})
 		return id
 	}
-	add("fix auth bug @backend +api [[jwt-expiry]]", map[string]string{"due": today, "src": "claude", "s": "doing"}, 'A')
-	add("deploy API v2 +api", map[string]string{"due": today}, 'A')
+	authID := add("fix auth bug @backend +api [[jwt-expiry]]", map[string]string{"due": today, "src": "claude", "s": "doing"}, 'A')
+	add("deploy API v2 +api", map[string]string{"due": today, "discovered": authID}, 'A')
 	cfg := add("update config +api", nil, 0)
 	add("write migration +api", map[string]string{"due": friday, "blocks": cfg}, 'B')
 	add("spike: rotate auth secrets [[jwt-expiry]]", nil, 'C')

diff --git a/internal/cli/cli.go b/internal/cli/cli.go
@@ -167,6 +167,7 @@ ADD/UPDATE FLAGS
   --pri high|med|low   --due today|tomorrow|fri|+3d|YYYY-MM-DD
   --tag NAME (repeat)  --project NAME   --source NAME
   --parent <id>        --blocks <id>    --note <slug>   (link to a note)
+  --discovered-from <id>   record that this task was surfaced while doing another
 
 LIST/RECALL FLAGS
   --status open|doing|blocked|done   --tag NAME   --project NAME

diff --git a/.claude/skills/nt/SKILL.md b/.claude/skills/nt/SKILL.md
@@ -35,7 +35,35 @@ nt add "refactor auth middleware" --source claude --pri high --due today --tag b
 
 Flags: `--pri high|med|low`, `--due today|tomorrow|fri|+3d|YYYY-MM-DD`,
 `--tag NAME` (repeatable), `--project NAME`, `--blocks <id>` (this task blocks
-another), `--recur weekly|3d|…`, `--note <slug>` (link to a note).
+another), `--discovered-from <id>` (see below), `--recur weekly|3d|…`,
+`--note <slug>` (link to a note).
+
+## Capture the *why*, not just the *what*
+
+A todo list records what's left to do; durable memory also needs the reasoning a
+future session would otherwise have to rediscover. Capture two things as you work:
+
+- **Discovered work** — when you surface a *new* task while doing another, link it
+  to its origin so the chain of work is recoverable:
+
+  ```bash
+  nt add "backfill user.tier column" --discovered-from <current-task-id> --source claude
+  ```
+
+  `nt links <id>` then shows "discovered from ↑" and "discovered here ↳" both ways.
+
+- **Decisions, constraints, dead-ends** — when you make a non-obvious call or rule
+  something out, write a note (not a task) so the *why* survives:
+
+  ```bash
+  nt note "Chose flock+atomic-rename over SQLite" \
+    --body "Store must stay greppable/git-able; WAL would hide state. Tried X, too slow." \
+    --source claude --tag decision
+  ```
+
+  Treat this like leaving a code comment for the next engineer — it's the highest-
+  value memory, and `nt recall --json` now returns note bodies so the next session
+  reads it back in full.
 
 ## Capture notes
 

diff --git a/SPEC.md b/SPEC.md
@@ -113,6 +113,7 @@ x 2026-06-05 2026-06-01 write migration +api parent:01JZ8RT3 id:01JZ8RT9
 | recurrence        | `rec:weekly`, `rec:3d`               | Completing spawns the next |
 | subtask           | `parent:<id>`                        | Typed task→task; one level only |
 | dependency        | `blocks:<id>`                        | Typed task→task; hides blocked |
+| provenance        | `discovered:<id>`                    | Work surfaced while doing another task (AI memory) |
 | link (untyped)    | `[[note-slug]]` / `[[<ULID>]]`       | Cross-link to any note or task (§5.1) |
 | AI / origin       | `src:claude`                         | Defaults to `src:cli` / `src:tui` |
 | stable id         | `id:<ULID>`                          | Primary handle (§7.2) |